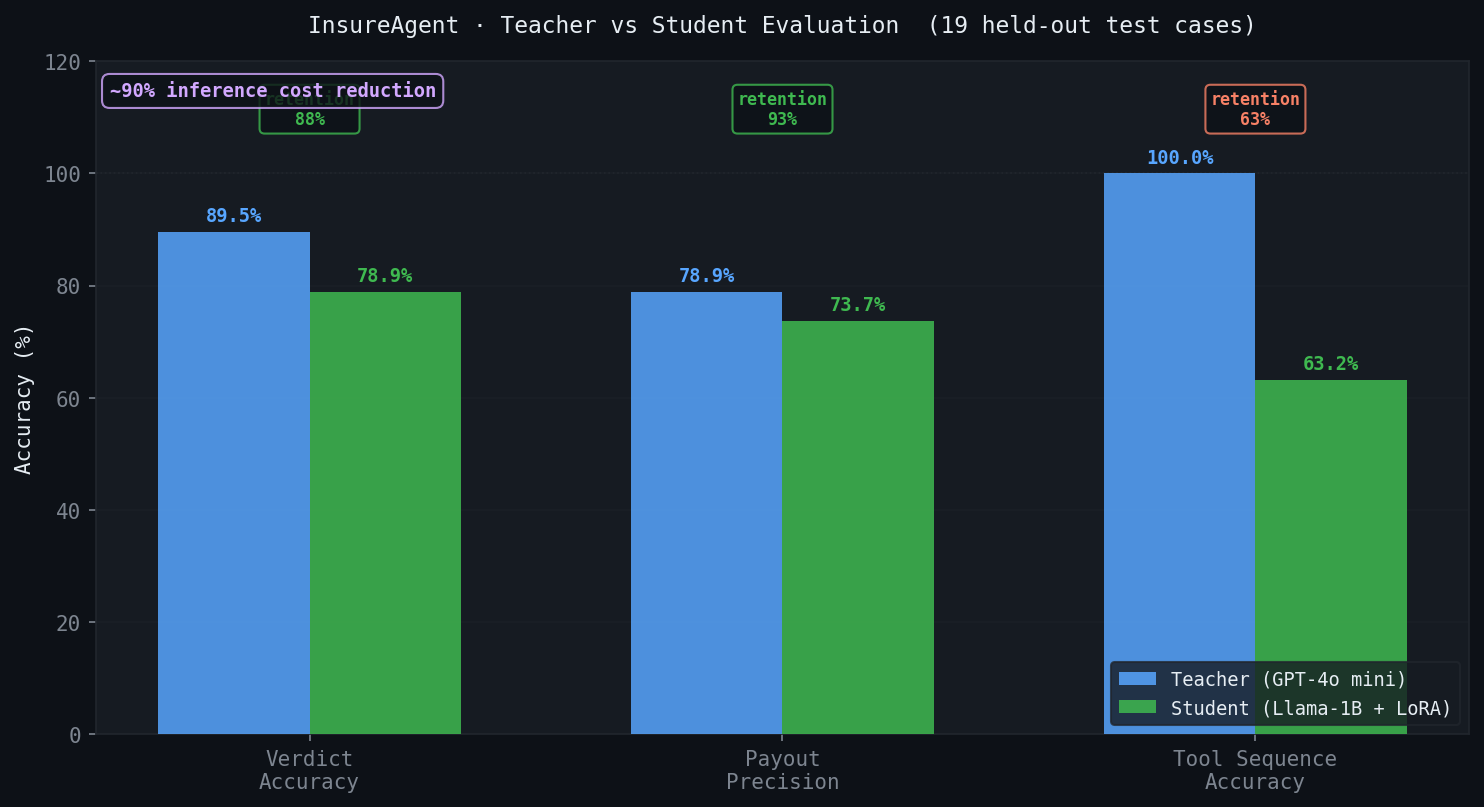
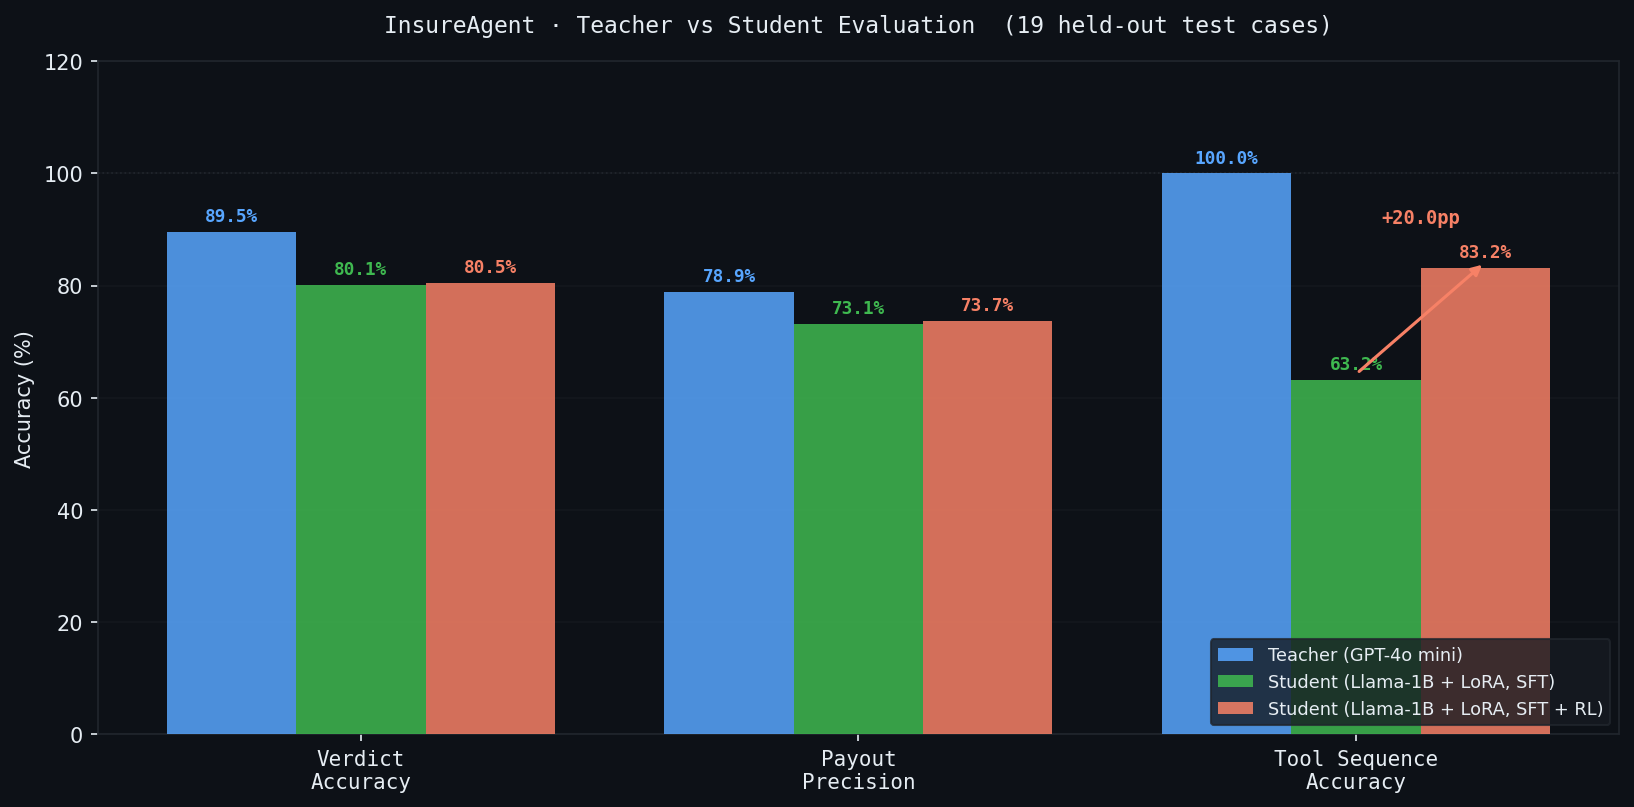
update figures

diff --git a/README.md b/README.md
@@ -291,6 +291,8 @@ The reward function calls the real rules engine to score each generated trace:
 | Payout within $100 of ground truth | +0.3 |
 | Hallucinated Observation detected | −0.5 |
 
+![Evaluation](docs/images/grpo_diagram.png)
+
 GRPO generates N candidate traces per claim (default: 4), scores each with the reward function, and updates the model to favour higher-reward traces relative to the group. This directly targets failure modes identified in SFT evaluation — particularly `calculate_payout` being called on ineligible claims.
 
 ---
